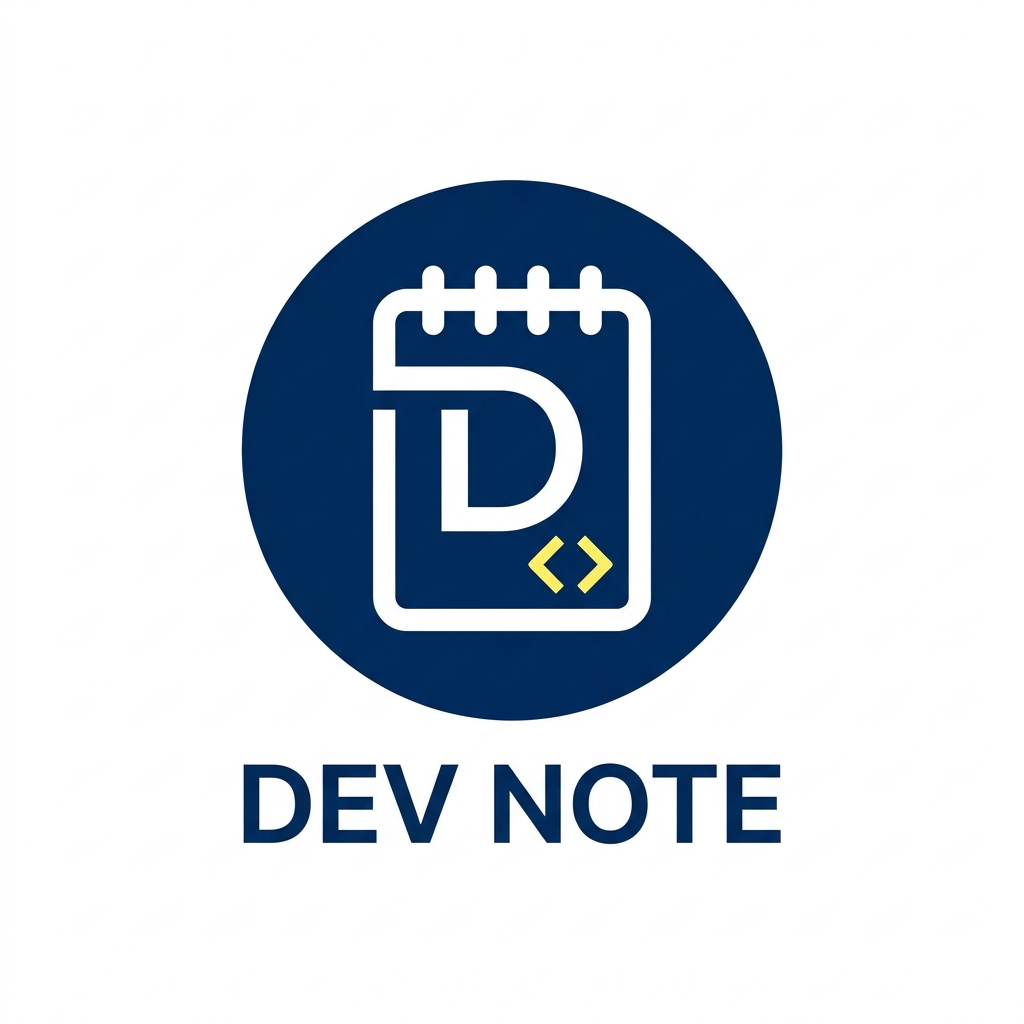
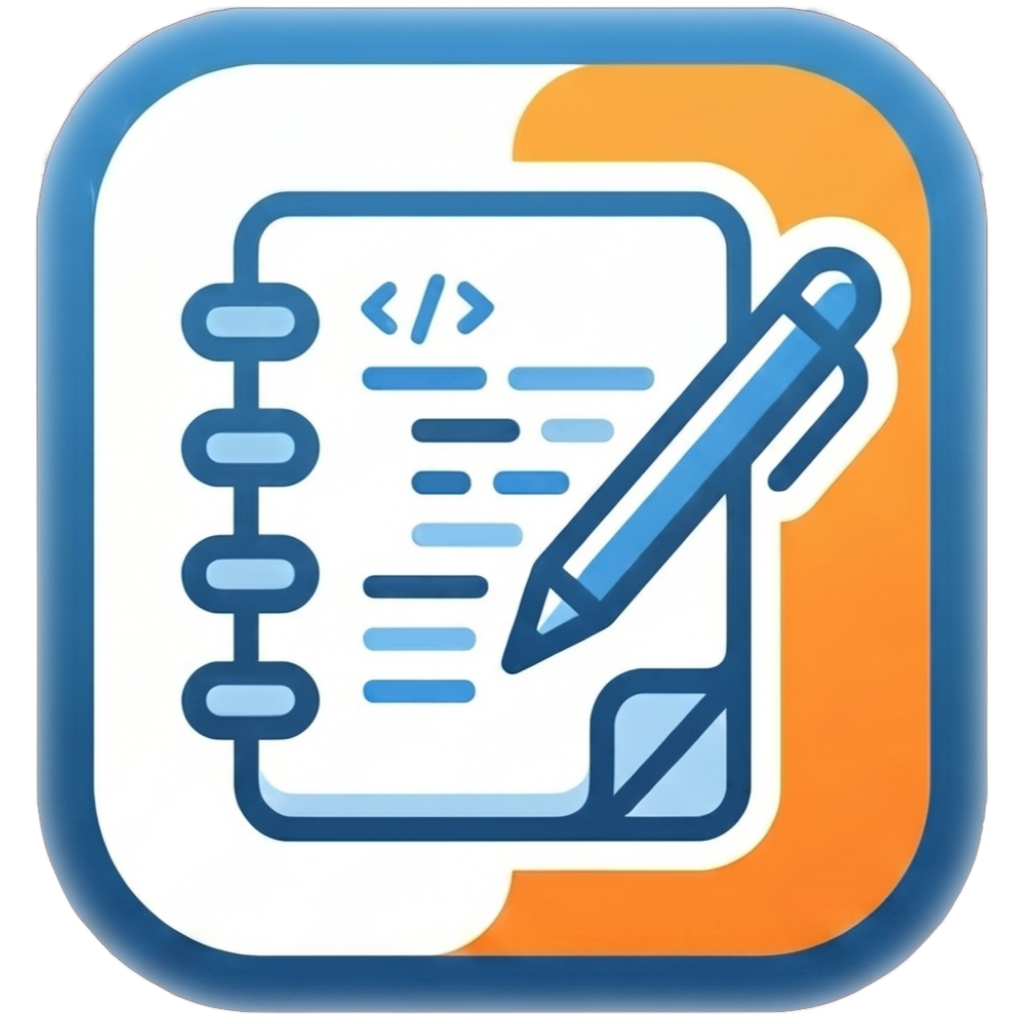
update debug-0.1.6

diff --git a/capacitor.config.ts b/capacitor.config.ts
@@ -7,6 +7,16 @@ const config: CapacitorConfig = {
   bundledWebRuntime: false,
   server: {
     androidScheme: 'https'
+  },
+  plugins: {
+    SplashScreen: {
+      launchShowDuration: 1500,
+      backgroundColor: '#eedc82',
+      showSpinner: false,
+      androidScaleType: 'CENTER_CROP',
+      splashFullScreen: true,
+      splashImmersive: true
+    }
   }
 };
 